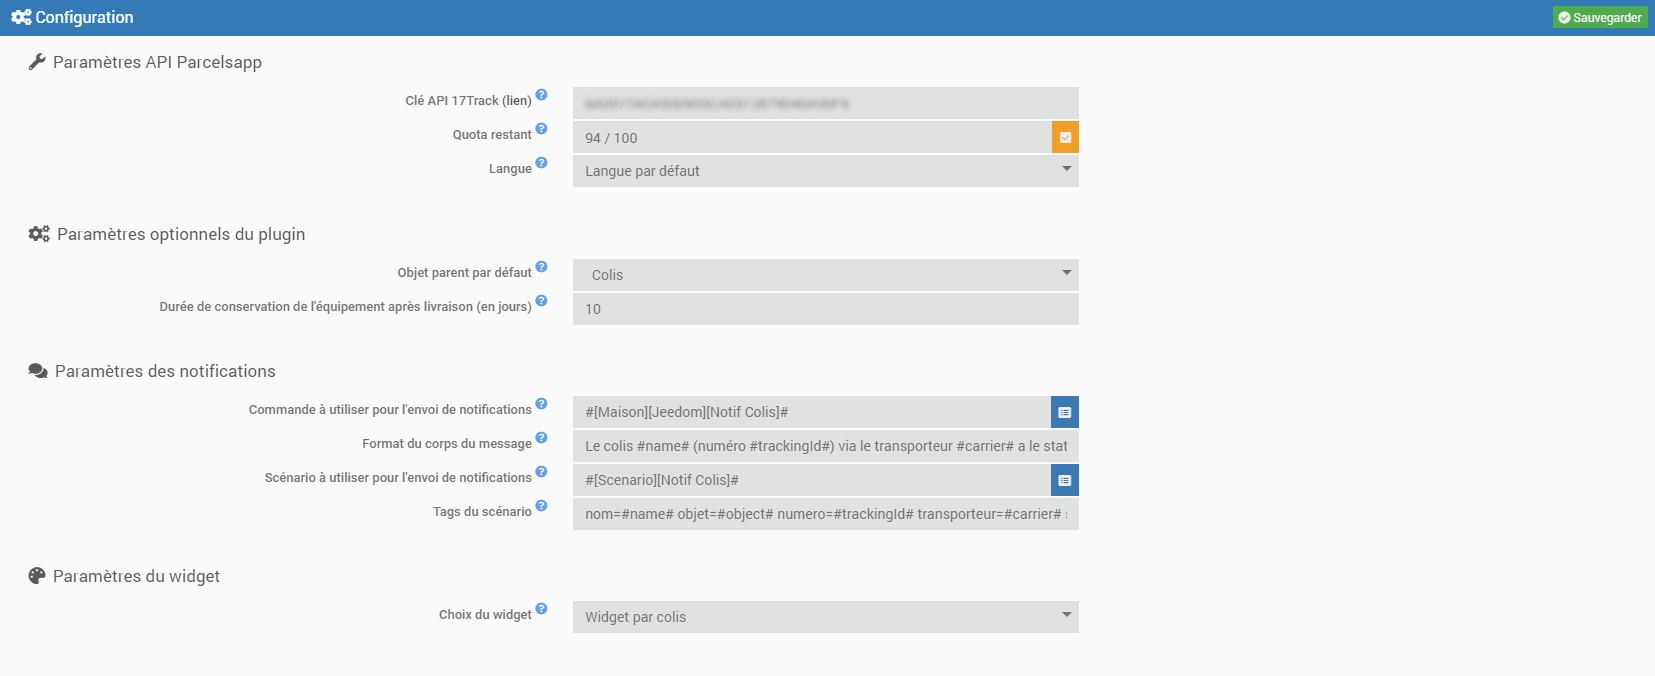
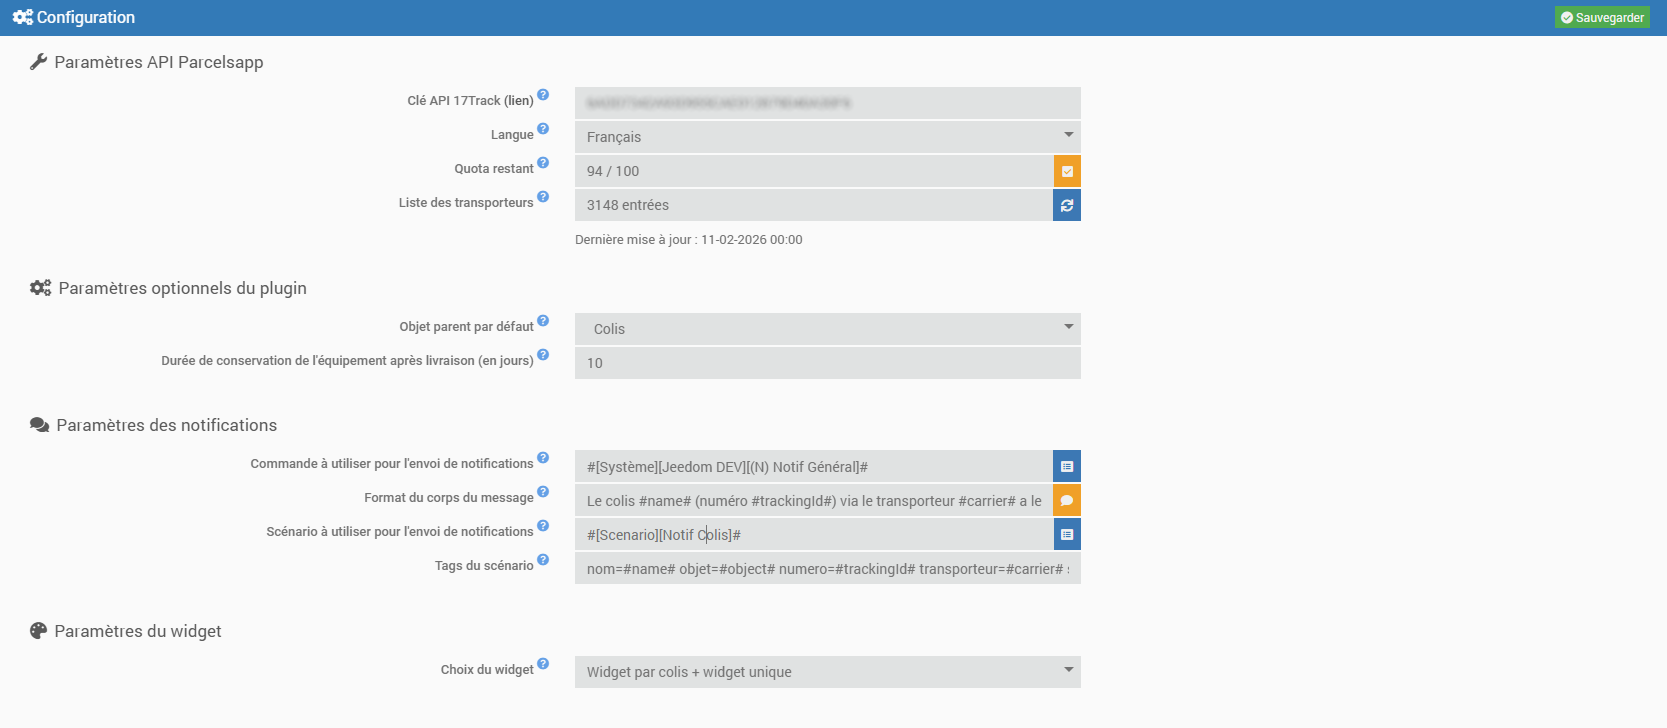
Update parcelTracking docs

diff --git a/parcelTracking/fr_FR/index.md b/parcelTracking/fr_FR/index.md
@@ -35,22 +35,23 @@ Le plugin s'installe comme n'importe quel autre plugin sur Jeedom, via le Market
 
 7. Vous pouvez consulter le nombre de suivi restant sur votre quota en cliquant sur le bouton **Vérifier**
 8. Sélectionnez la langue utilisée pour les retours API. Attention, si vous choisissez une langue autre que par défaut, cela décomptera 2 suivis par colis sur votre quota
-9. Renseignez les paramètres optionnels du plugin :
+9. Vous pouvez mettre à jour la liste des transporteurs et la liste des paramètres additionnels. Par défaut elles seront mises à jour chaque jour lors du cron journalier.
+10. Renseignez les paramètres optionnels du plugin :
  - Objet parent par défaut ==> Ajout automatique de l'objet spécifié lors de la création de nouveaux suivis
  - Durée de conservation de l'équipement après livraison (en jours) ==> Suppression automatique de l'équipement X jours après sa livraison
-10. Renseignez les paramètres de notifications si vous souhaitez être informés à chaque changement de statut
+11. Renseignez les paramètres de notifications si vous souhaitez être informés à chaque changement de statut
  - Les 2 premières lignes concernent l'envoi des notifications via une commande action de type message 
    Option : vous pouvez personnaliser le message en utilisant les tags suivants : #name#, #trackingId#, #carrier#, #status#, #lastState#, #date# et #time#
    Vous pouvez tester le bon fonctionnement avec l'envoi d'une notification de test
  - Les 2 dernières lignes concernent l'envoi des notifications via un scénario
    Vous pouvez utiliser les tags suivants : #name#, #object#, #trackingId#, #carrier#, #status#, #lastState#, #date# et #time#
    Ils fonctionnent ainsi : nomdusuivi=#name# où nomdusuivi est le nom du tag et #name# la valeur du tag
-11. Renseignez les paramètres du widget
+12. Renseignez les paramètres du widget
   3 choix possibles :
   - Aucun widget (vous recevrez uniquement les notifications)
   - Un widget par colis
   - Un widget unique pour l'ensemble des colis
-12. Sauvegardez
+13. Sauvegardez
 
 <br/>![Config parcelTracking](../images/config_parcelTracking.png)<br/>
 

diff --git a/parcelTracking/fr_FR/changelog.md b/parcelTracking/fr_FR/changelog.md
@@ -12,14 +12,20 @@ pluginId: parcelTracking
 **Remarque** : en cas de mise à jour non listée ici, c'est que celle-ci ne comporte que des changements mineurs du type documentation ou corrections de bugs mineurs.
 
 
+# 2026-02-15
+
+Ajout des fonctions suivantes :
+ - Mise à jour de la liste des transporteurs et des paramètres additionnels automatique (via bouton ou via cron journalier)
+ 
+
 # 2025-11-10
 
 Ajout des fonctions suivantes :
  - Mise à jour de la liste des transporteurs et des paramètres additionnels
- - Ajout d'un champ "Recherche" pour filtrer les transporteurs dans la liste de choix (par nom, par pays, ...)
+ - Ajout d'un champ "Recherche" pour filtrer les transporteurs dans la liste de choix (par nom, par pays,...)
 
 Corrections suivantes :
- - Correction de PHP warning lors de l'affichage du widget global dans certains cas (`states` vide par ex.)
+ - Correction de PHP warning lors de l'affichage du widget global dans certains cas ("states" vide par ex.)
 
 
 # 2025-05-20
